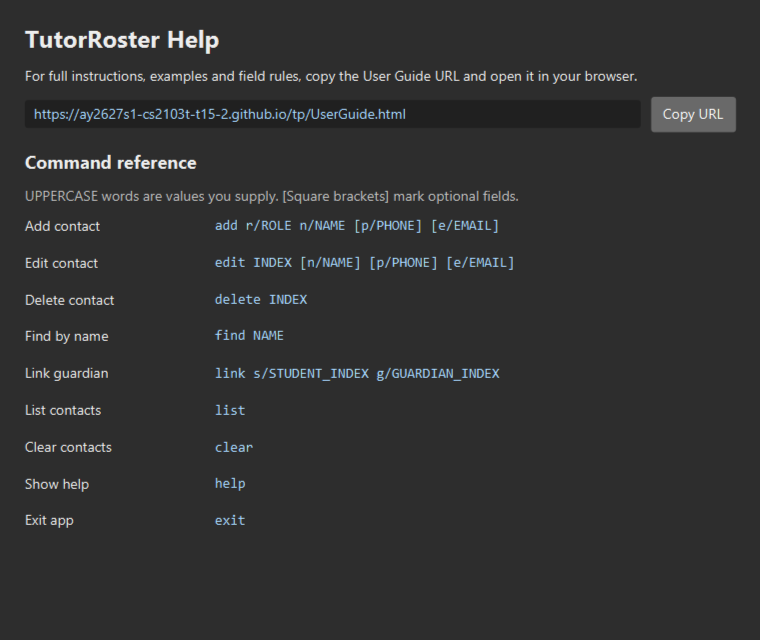
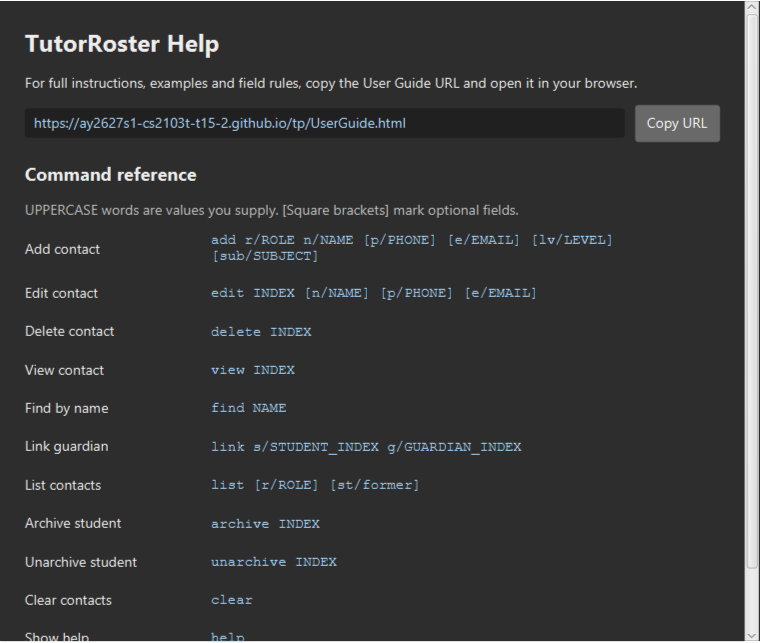
Keep Help formats aligned with command definitions
Build the Help reference from command constants so current formats and
newly supported commands are shown consistently.

Use portable fonts, simplify screen sizing, remove screenshot output
from tests, and refresh the User Guide screenshot.

Validation: full tests and Checkstyle passed.

diff --git a/src/main/resources/view/HelpWindow.css b/src/main/resources/view/HelpWindow.css
@@ -1,6 +1,6 @@
 .root, .scroll-pane, .scroll-pane > .viewport {
     -fx-background-color: #2d2d2d;
-    -fx-font-family: "Segoe UI";
+    -fx-font-family: "System";
     -fx-font-size: 14px;
 }
 
@@ -24,7 +24,7 @@
 }
 
 .command-format {
-    -fx-font-family: "Consolas", monospace;
+    -fx-font-family: "Monospaced";
     -fx-text-fill: #a8d8ff;
 }
 

diff --git a/src/main/java/seedu/address/ui/HelpWindow.java b/src/main/java/seedu/address/ui/HelpWindow.java
@@ -1,16 +1,31 @@
 package seedu.address.ui;
 
+import java.util.List;
 import java.util.logging.Logger;
 
 import javafx.fxml.FXML;
+import javafx.geometry.Rectangle2D;
 import javafx.scene.control.Button;
 import javafx.scene.control.Label;
 import javafx.scene.control.TextField;
 import javafx.scene.input.Clipboard;
 import javafx.scene.input.ClipboardContent;
+import javafx.scene.layout.GridPane;
 import javafx.stage.Screen;
 import javafx.stage.Stage;
 import seedu.address.commons.core.LogsCenter;
+import seedu.address.logic.commands.AddCommand;
+import seedu.address.logic.commands.ArchiveCommand;
+import seedu.address.logic.commands.ClearCommand;
+import seedu.address.logic.commands.DeleteCommand;
+import seedu.address.logic.commands.EditCommand;
+import seedu.address.logic.commands.ExitCommand;
+import seedu.address.logic.commands.FindCommand;
+import seedu.address.logic.commands.HelpCommand;
+import seedu.address.logic.commands.LinkCommand;
+import seedu.address.logic.commands.ListCommand;
+import seedu.address.logic.commands.UnarchiveCommand;
+import seedu.address.logic.commands.ViewCommand;
 
 /**
  * Controller for a help page
@@ -24,6 +39,20 @@ public class HelpWindow extends UiPart<Stage> {
     private static final Logger logger = LogsCenter.getLogger(HelpWindow.class);
     private static final String FXML = "HelpWindow.fxml";
 
+    private static final List<CommandHelp> COMMAND_HELP = List.of(
+            new CommandHelp("Add contact", AddCommand.COMMAND_FORMAT),
+            new CommandHelp("Edit contact", EditCommand.COMMAND_FORMAT),
+            new CommandHelp("Delete contact", DeleteCommand.COMMAND_FORMAT),
+            new CommandHelp("View contact", ViewCommand.COMMAND_FORMAT),
+            new CommandHelp("Find by name", FindCommand.COMMAND_FORMAT),
+            new CommandHelp("Link guardian", LinkCommand.MESSAGE_USAGE),
+            new CommandHelp("List contacts", ListCommand.COMMAND_FORMAT),
+            new CommandHelp("Archive student", ArchiveCommand.COMMAND_FORMAT),
+            new CommandHelp("Unarchive student", UnarchiveCommand.COMMAND_FORMAT),
+            new CommandHelp("Clear contacts", ClearCommand.COMMAND_WORD),
+            new CommandHelp("Show help", HelpCommand.COMMAND_WORD),
+            new CommandHelp("Exit app", ExitCommand.COMMAND_WORD));
+
     @FXML
     private Button copyButton;
 
@@ -32,6 +61,9 @@ public class HelpWindow extends UiPart<Stage> {
 
     @FXML
     private TextField userGuideUrl;
+
+    @FXML
+    private GridPane commandReference;
 
     /**
      * Creates a new HelpWindow.
@@ -42,6 +74,7 @@ public class HelpWindow extends UiPart<Stage> {
         super(FXML, root);
         helpMessage.setText(HELP_MESSAGE);
         userGuideUrl.setText(USERGUIDE_URL);
+        populateCommandReference();
     }
 
     /**
@@ -49,6 +82,33 @@ public class HelpWindow extends UiPart<Stage> {
      */
     public HelpWindow() {
         this(new Stage());
+    }
+
+    /**
+     * Returns the command formats displayed in the Help window, in display order.
+     */
+    static List<String> getCommandFormats() {
+        return COMMAND_HELP.stream().map(CommandHelp::format).toList();
+    }
+
+    private void populateCommandReference() {
+        for (int row = 0; row < COMMAND_HELP.size(); row++) {
+            CommandHelp command = COMMAND_HELP.get(row);
+            Label description = createWrappingLabel(command.description());
+            Label format = createWrappingLabel(command.format());
+            format.getStyleClass().add("command-format");
+            commandReference.addRow(row, description, format);
+        }
+    }
+
+    private Label createWrappingLabel(String text) {
+        Label label = new Label(text);
+        label.setWrapText(true);
+        label.setMaxWidth(Double.MAX_VALUE);
+        return label;
+    }
+
+    private record CommandHelp(String description, String format) {
     }
 
     /**
@@ -72,8 +132,9 @@ public class HelpWindow extends UiPart<Stage> {
     public void show() {
         logger.fine("Showing help page about the application.");
         getRoot().show();
-        getRoot().setWidth(Math.min(getRoot().getWidth(), Screen.getPrimary().getVisualBounds().getWidth()));
-        getRoot().setHeight(Math.min(getRoot().getHeight(), Screen.getPrimary().getVisualBounds().getHeight()));
+        Rectangle2D screenBounds = Screen.getPrimary().getVisualBounds();
+        getRoot().setWidth(Math.min(getRoot().getWidth(), screenBounds.getWidth()));
+        getRoot().setHeight(Math.min(getRoot().getHeight(), screenBounds.getHeight()));
         getRoot().centerOnScreen();
     }
 

diff --git a/src/test/java/seedu/address/ui/HelpWindowTest.java b/src/test/java/seedu/address/ui/HelpWindowTest.java
@@ -4,13 +4,9 @@ import static org.junit.jupiter.api.Assertions.assertEquals;
 import static org.junit.jupiter.api.Assertions.assertFalse;
 import static org.junit.jupiter.api.Assertions.assertTrue;
 
-import java.awt.image.BufferedImage;
-import java.nio.file.Files;
-import java.nio.file.Path;
 import java.util.List;
 import java.util.concurrent.FutureTask;
 import java.util.concurrent.TimeUnit;
-import javax.imageio.ImageIO;
 
 import org.junit.jupiter.api.BeforeAll;
 import org.junit.jupiter.api.Test;
@@ -22,7 +18,6 @@ import javafx.scene.control.Button;
 import javafx.scene.control.Label;
 import javafx.scene.control.ScrollPane;
 import javafx.scene.control.TextField;
-import javafx.scene.image.WritableImage;
 import javafx.scene.input.Clipboard;
 import javafx.scene.input.ClipboardContent;
 import javafx.scene.layout.Region;
@@ -53,12 +48,9 @@ public class HelpWindowTest {
                 assertFalse(url.isEditable());
                 List<String> formats = root.lookupAll(".command-format").stream()
                         .map(node -> ((Label) node).getText()).toList();
-                assertEquals(9, formats.size());
-                assertTrue(formats.containsAll(List.of("add r/ROLE n/NAME [p/PHONE] [e/EMAIL]",
-                        "edit INDEX [n/NAME] [p/PHONE] [e/EMAIL]", "delete INDEX", "find NAME",
-                        "link s/STUDENT_INDEX g/GUARDIAN_INDEX", "list", "clear", "help", "exit")));
+                assertEquals(HelpWindow.getCommandFormats().size(), formats.size());
+                assertTrue(formats.containsAll(HelpWindow.getCommandFormats()));
                 assertCopyUrl(root);
-                saveScreenshot(root);
             } finally {
                 help.hide();
             }
@@ -98,24 +90,6 @@ public class HelpWindowTest {
             assertEquals(HelpWindow.USERGUIDE_URL, clipboard.getString());
         } finally {
             clipboard.setContent(original);
-        }
-    }
-
-    private void saveScreenshot(Region root) {
-        WritableImage snapshot = root.snapshot(null, null);
-        BufferedImage image = new BufferedImage((int) snapshot.getWidth(), (int) snapshot.getHeight(),
-                BufferedImage.TYPE_INT_ARGB);
-        for (int y = 0; y < image.getHeight(); y++) {
-            for (int x = 0; x < image.getWidth(); x++) {
-                image.setRGB(x, y, snapshot.getPixelReader().getArgb(x, y));
-            }
-        }
-        try {
-            Path destination = Path.of("build", "reports", "help-window.png");
-            Files.createDirectories(destination.getParent());
-            ImageIO.write(image, "png", destination.toFile());
-        } catch (java.io.IOException exception) {
-            throw new AssertionError("Could not save Help window screenshot", exception);
         }
     }
 

diff --git a/src/main/java/seedu/address/logic/commands/AddCommand.java b/src/main/java/seedu/address/logic/commands/AddCommand.java
@@ -21,15 +21,13 @@ public class AddCommand extends Command {
 
     public static final String COMMAND_WORD = "add";
 
+    public static final String COMMAND_PARAMETERS = PREFIX_ROLE + "ROLE " + PREFIX_NAME + "NAME "
+            + "[" + PREFIX_PHONE + "PHONE] [" + PREFIX_EMAIL + "EMAIL] "
+            + "[" + PREFIX_LEVEL + "LEVEL] [" + PREFIX_SUBJECT + "SUBJECT]";
+    public static final String COMMAND_FORMAT = COMMAND_WORD + " " + COMMAND_PARAMETERS;
+
     public static final String MESSAGE_USAGE = COMMAND_WORD + ": Adds a student or guardian contact.\n"
-            + "Parameters: "
-            + PREFIX_ROLE + "ROLE "
-            + PREFIX_NAME + "NAME "
-            + "[" + PREFIX_PHONE + "PHONE] "
-            + "[" + PREFIX_EMAIL + "EMAIL] "
-            + "[" + PREFIX_LEVEL + "LEVEL] "
-            + "[" + PREFIX_SUBJECT + "SUBJECT]"
-            + "\n"
+            + "Parameters: " + COMMAND_PARAMETERS + "\n"
             + "Students may omit phone and email; guardians must provide at least one.\n"
             + "Only students can have a level and subject.\n"
             + "Example: " + COMMAND_WORD + " "

diff --git a/src/main/java/seedu/address/logic/commands/FindCommand.java b/src/main/java/seedu/address/logic/commands/FindCommand.java
@@ -15,7 +15,8 @@ public class FindCommand extends Command {
 
     public static final String COMMAND_WORD = "find";
 
-    public static final String MESSAGE_INVALID_FORMAT = "Invalid find command. Use: " + COMMAND_WORD + " NAME";
+    public static final String COMMAND_FORMAT = COMMAND_WORD + " NAME";
+    public static final String MESSAGE_INVALID_FORMAT = "Invalid find command. Use: " + COMMAND_FORMAT;
     public static final String MESSAGE_SUCCESS = "Found %1$s matching: %2$s.";
     public static final String MESSAGE_NO_MATCHES = "No contacts found matching: %1$s";
 

diff --git a/src/main/java/seedu/address/logic/commands/UnarchiveCommand.java b/src/main/java/seedu/address/logic/commands/UnarchiveCommand.java
@@ -9,6 +9,7 @@ import seedu.address.model.person.StudentStatus;
 public class UnarchiveCommand extends StudentStatusCommand {
 
     public static final String COMMAND_WORD = "unarchive";
+    public static final String COMMAND_FORMAT = COMMAND_WORD + " INDEX";
 
     public static final String MESSAGE_USAGE = COMMAND_WORD
             + ": Marks the former student identified by the index number used in the displayed contact list"

diff --git a/src/main/java/seedu/address/logic/commands/ArchiveCommand.java b/src/main/java/seedu/address/logic/commands/ArchiveCommand.java
@@ -9,6 +9,7 @@ import seedu.address.model.person.StudentStatus;
 public class ArchiveCommand extends StudentStatusCommand {
 
     public static final String COMMAND_WORD = "archive";
+    public static final String COMMAND_FORMAT = COMMAND_WORD + " INDEX";
 
     public static final String MESSAGE_USAGE = COMMAND_WORD
             + ": Marks the student identified by the index number used in the displayed contact list"

diff --git a/src/main/java/seedu/address/logic/commands/DeleteCommand.java b/src/main/java/seedu/address/logic/commands/DeleteCommand.java
@@ -16,6 +16,7 @@ import seedu.address.model.person.Person;
 public class DeleteCommand extends Command {
 
     public static final String COMMAND_WORD = "delete";
+    public static final String COMMAND_FORMAT = COMMAND_WORD + " INDEX";
 
     public static final String MESSAGE_USAGE = COMMAND_WORD
             + ": Deletes the contact identified by the index number used in the displayed contact list.\n"

diff --git a/src/main/java/seedu/address/logic/commands/ViewCommand.java b/src/main/java/seedu/address/logic/commands/ViewCommand.java
@@ -17,6 +17,7 @@ import seedu.address.model.person.Person;
 public class ViewCommand extends Command {
 
     public static final String COMMAND_WORD = "view";
+    public static final String COMMAND_FORMAT = COMMAND_WORD + " INDEX";
 
     public static final String MESSAGE_SUCCESS = "Viewing contact: %1$s [%2$s].";
 
